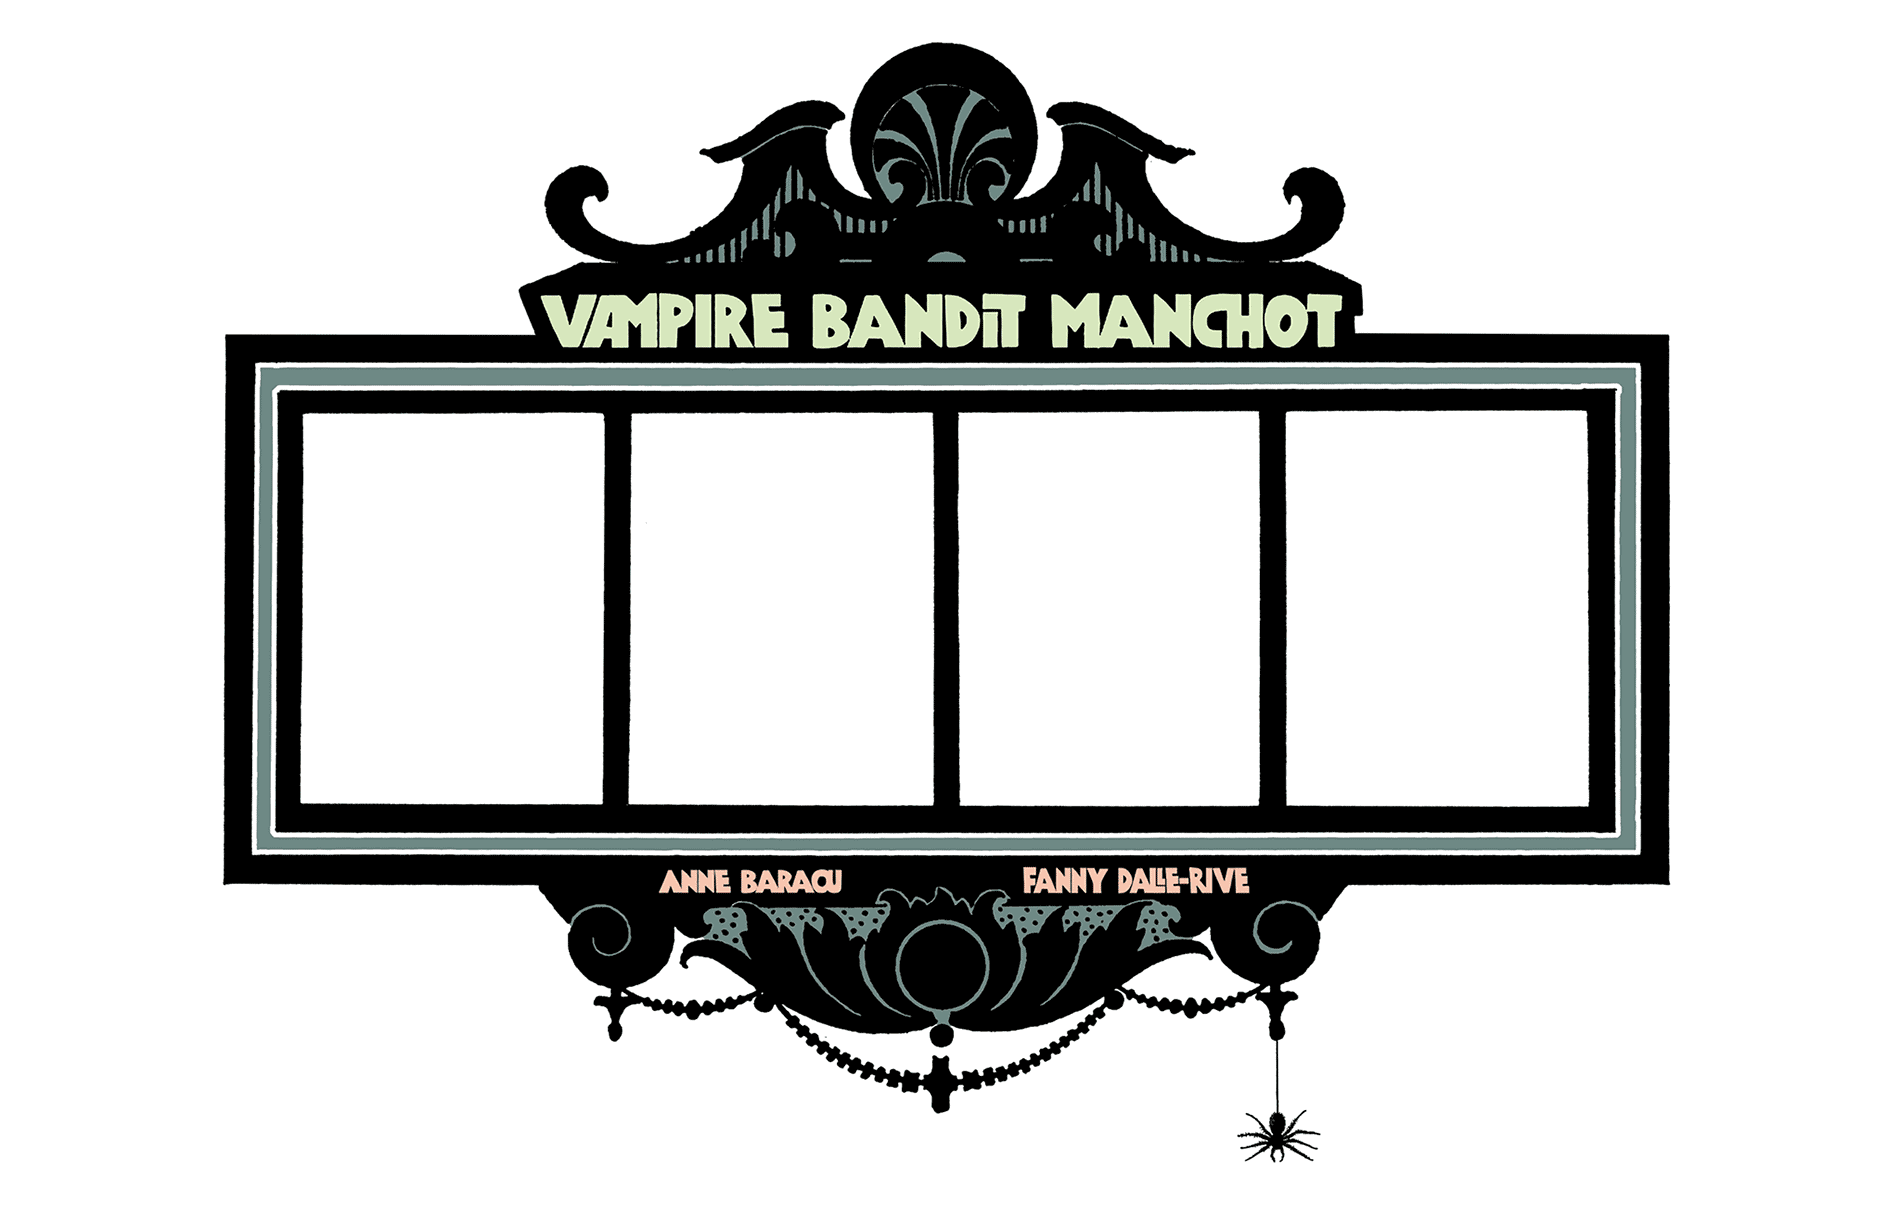
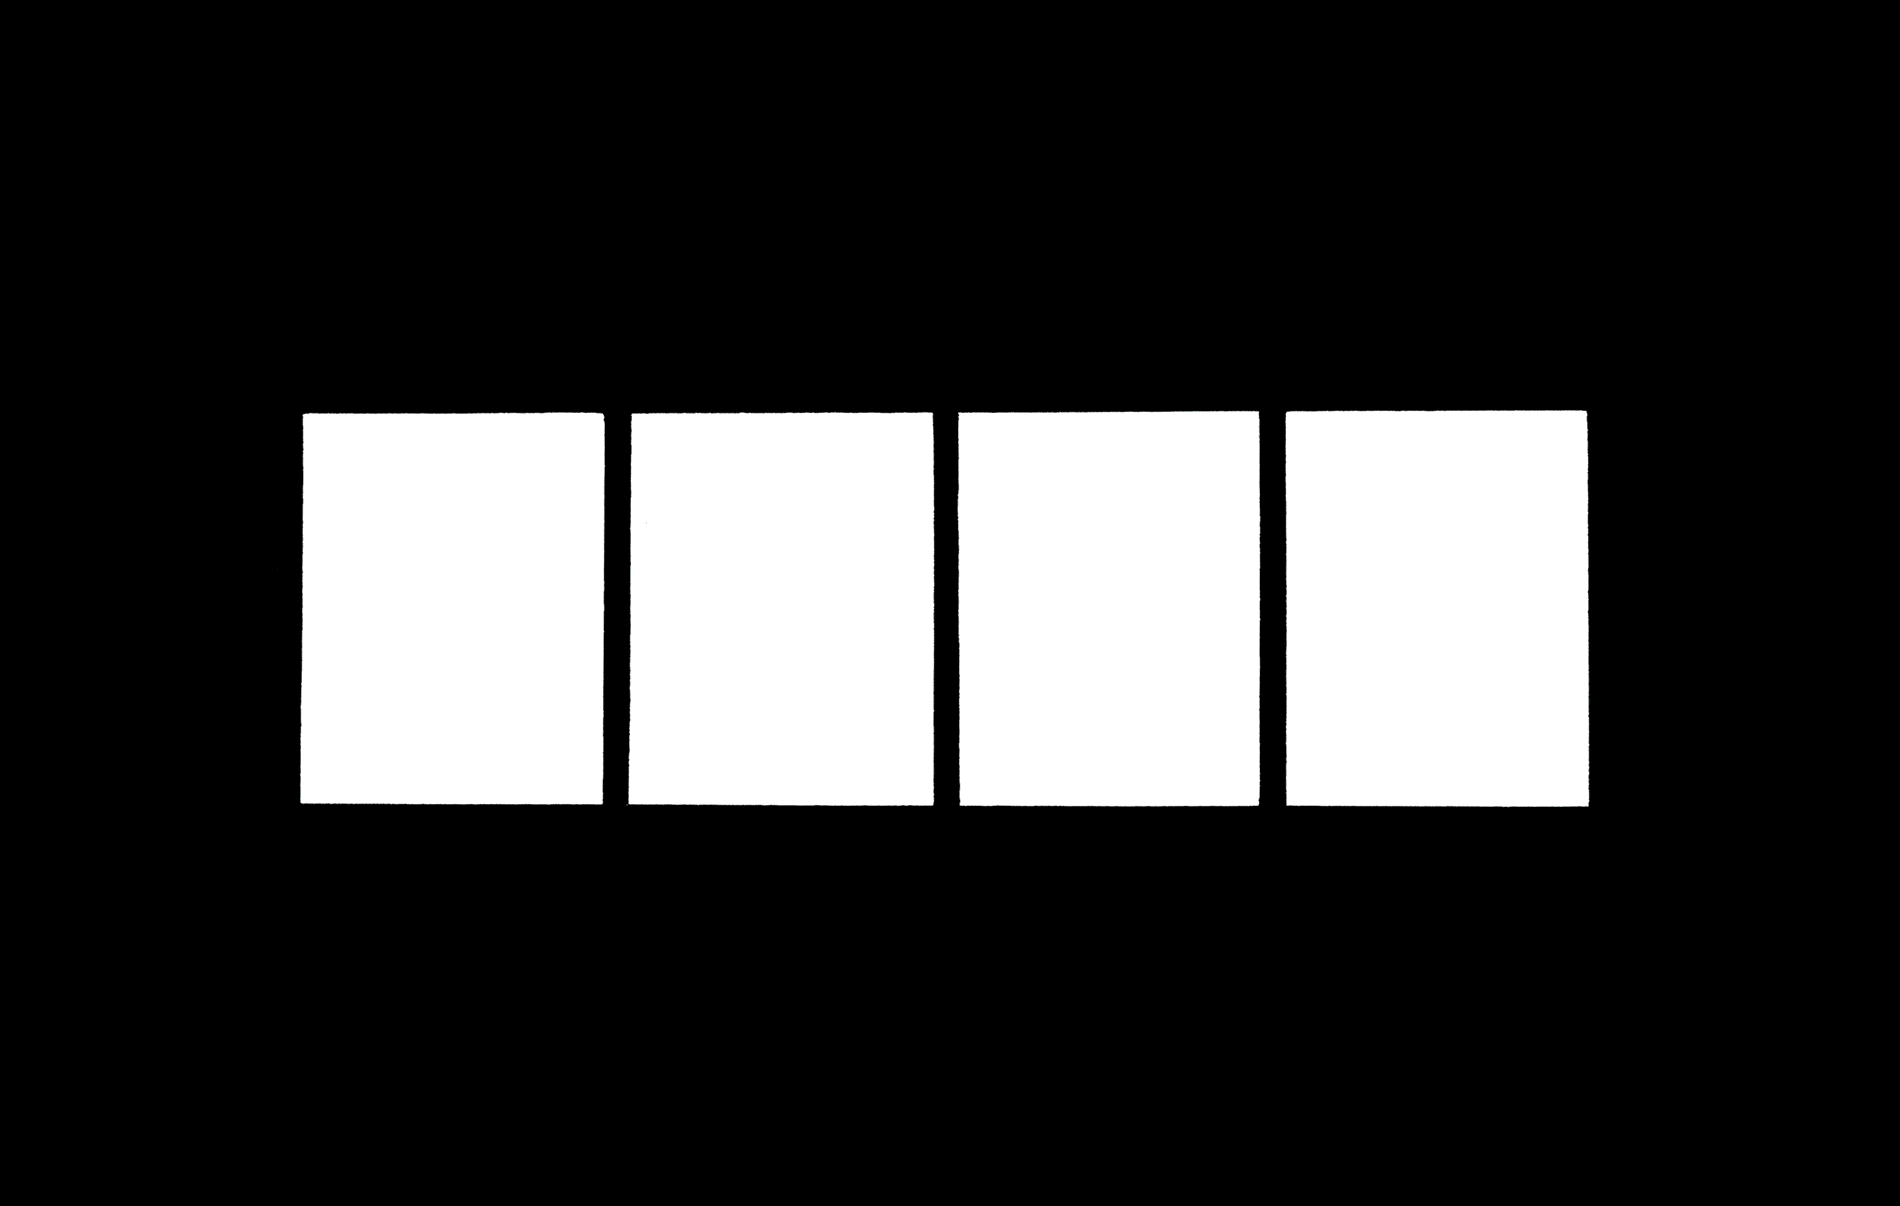
Some changes after checking in-situ
- Added button and led with johnny-five to start the mix
- Longer image animation
- Updated cursor visibility

diff --git a/css/index.css b/css/index.css
@@ -1,42 +1,48 @@
+* {
+	cursor: none
+}
 body{
 	margin: 0;
 	overflow: hidden;
+	background-color: #000;
+	cursor:
 }
 #container {
 	position: relative;
 	width: 100%;
 	margin: 0;
-	padding: 0;overflow: auto;
+	padding: 0;
+	overflow: hidden;
 }
 #banditCadre {
 	background: red;
 	position: absolute;
-	top:50%;
+	top: 50%;
 	width: 90%;
 	margin: auto 5%;
-	background:  no-repeat center top;
+	background: no-repeat center top;
 	background-size: 100% auto;
 	background-image:url(../img/BanditCadre.png);
 }
 #colone1{
-	background-image:url(../img/bg_colone1.png);
-	-webkit-transition: background-position 2s ease-out;
-	transition: background-position 2s ease-out;
+	background-image: url(../img/bg_colone1.png);
+	-webkit-transition: background-position 5s ease-out;
+	transition: background-position 5s ease-out;
 }
 #colone2{
-	background-image:url(../img/bg_colone2.png);
-	-webkit-transition: background-position 4s ease-out;
-	transition: background-position 4s ease-out;
+	background-image: url(../img/bg_colone2.png);
+	-webkit-transition: background-position 10s ease-out;
+	transition: background-position 10s ease-out;
 }
 #colone3{
-	background-image:url(../img/bg_colone3.png);
-	-webkit-transition: background-position 6s ease-out;
-	transition: background-position 6s ease-out;
+	background-image: url(../img/bg_colone3.png);
+	-webkit-transition: background-position 15s ease-out;
+	transition: background-position 15s ease-out;
 }
 #colone4{
-	background-image:url(../img/bg_colone4.png);
-	-webkit-transition: background-position 7s ease-out;
-	transition: background-position 7s ease-out;
+	background-image: url(../img/bg_colone4.png);
+	-webkit-transition: background-position 20s ease-out;
+	transition: background-position 20s ease-out;
 }
 #ombre {
 	position: absolute;
@@ -48,20 +54,6 @@ body{
 	background: transparent no-repeat;
 	background-size: 100% 100%;
 	background-image:url(../img/ombre.png);
-}
-#bouton {
-	position: absolute;
-	height: 10%;
-	background: transparent no-repeat top left;
-	background-size: 100% auto;
-}
-#zoneTap {
-	position: absolute;
-	top: 32%;
-	left: 15%;
-	right: 15%;
-	height: 55%;
-	z-index: 10;
 }
 #container_cols {
 	position: relative;
@@ -75,43 +67,4 @@ body{
 	margin: 0 1%;
 	background: transparent repeat-y 0 0 ;
 	background-size: 100% auto;
-}
-#bouton {
-	background-image:url(../img/bouton.gif);
-	top: 75.35%;
-	width: 3.8%;
-	left: 47.715%;
-}
-#spider {
-	position: absolute;
-	left: 64.2%;
-	top: 85%;
-	width: 6%;
-	height: 15%;
-	background:  no-repeat;
-	background-size: 100% auto;
-	background-image:url(../img/spider.png);
-}
-.anim_spider{
-	-webkit-transition-timing-function: linear;
-	transition-timing-function: linear;
-
-	-webkit-transform-origin: 50% 0%;
-	-ms-transform-origin: 50% 0%;
-	transform-origin: 50% 0%;
-
-	-webkit-animation: anim_bm_spider 5s infinite;
-	animation: anim_bm_spider 5s infinite;
-}
-
-@-webkit-keyframes anim_bm_spider {
-	from { -webkit-transform: rotate(-8deg); }
-	50% { -webkit-transform: rotate(8deg); }
-	to { -webkit-transform: rotate(-8deg); }
-}
-
-@keyframes anim_bm_spider {
-	from { transform: rotate(8deg); }
-	50% { transform: rotate(-8deg); }
-	to { transform: rotate(8deg); }
 }

diff --git a/js/index.js b/js/index.js
@@ -1,4 +1,5 @@
 var SerialPort = require('serialport').SerialPort,
+	five = require('johnny-five'),
 	Printer = require('thermalprinter'),
 	os = require('os'),
 	$ = require('jquery'),
@@ -9,7 +10,10 @@ var SerialPort = require('serialport').SerialPort,
 	bgp = [0,0,0,0,0],
 	numImg = {},
 	printer,
-	canPrint = false;
+	canPrint = false,
+	board = new five.Board({
+		port: '/dev/ttyACM0'
+	});
 
 // init stored images for each column
 numImg.col1 = 0;
@@ -17,7 +21,7 @@ numImg.col2 = 0;
 numImg.col3 = 0;
 numImg.col4 = 0;
 
-// serial port used
+// serial port used for the printer (mac or linux)
 var port = os.platform() === 'linux' ? '/dev/ttyUSB0' : '/dev/tty.usbserial';
 var serialPort = new SerialPort(port, {
 	baudrate: 19200
@@ -38,6 +42,21 @@ serialPort.on('open',function() {
 });
 
 
+// init arduino
+board.on('ready', function() {
+	new five.Led(11).pulse(2000);
+	var button = new five.Button({
+		pin: 2,
+		isPullup: true
+	});
+	button.on('down', function() {
+		if (canPrint) {
+			canPrint = false;
+			mix();
+		}
+	});
+});
+
 var resize = function() {
 	var HauteurW = window.innerHeight + 'px';
 	$('#container').css('height', HauteurW);
@@ -56,7 +75,7 @@ var resize = function() {
 	$('#bouton').css('top', topBT + 'px');
 };
 
-var mix = function(){
+var mix = function() {
 	j++;
 	if (j>=5) {
 		cpt = [0,0,0,0,0];
@@ -85,15 +104,5 @@ var mix = function(){
 		});
 };
 
-document.getElementById('zoneTap').addEventListener('click', function (e) {
-	if (canPrint) {
-		canPrint = false;
-		mix();
-	}
-	e.stopPropagation();
-}, false);
-
 $(window).resize(resize);
 resize();
-
-console.log(cwd);

diff --git a/index.html b/index.html
@@ -13,9 +13,6 @@
 				<div id="colone4" class="colone" ></div>
 			</div>
 			<div id="ombre"></div>
-			<div id="spider" class="anim_spider"></div>
-			<div id="bouton"></div>
-			<div id="zoneTap"></div>
 		</div>
 	</div>
 
